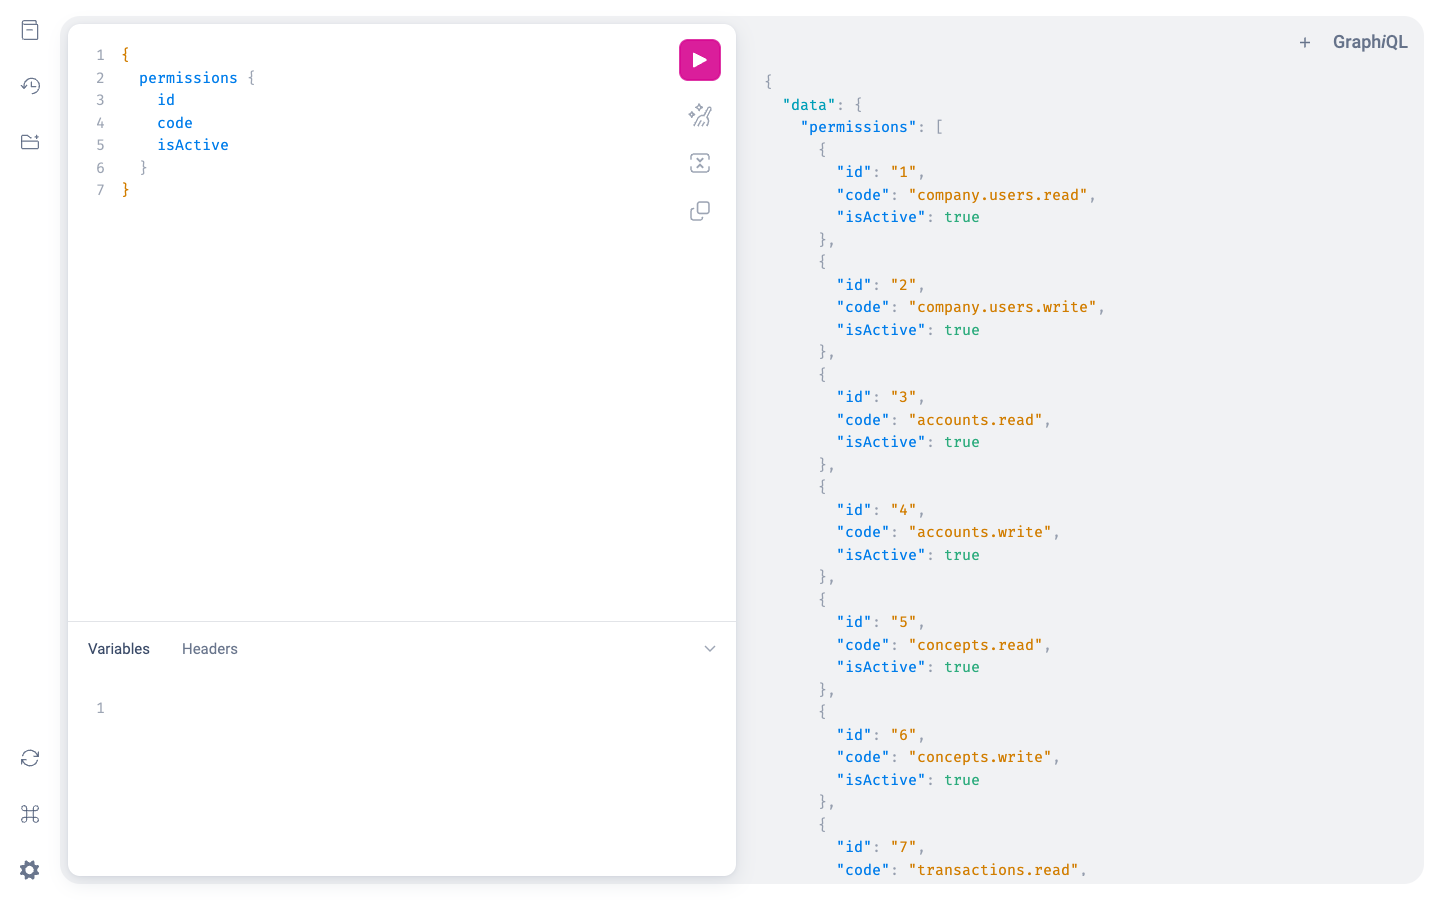
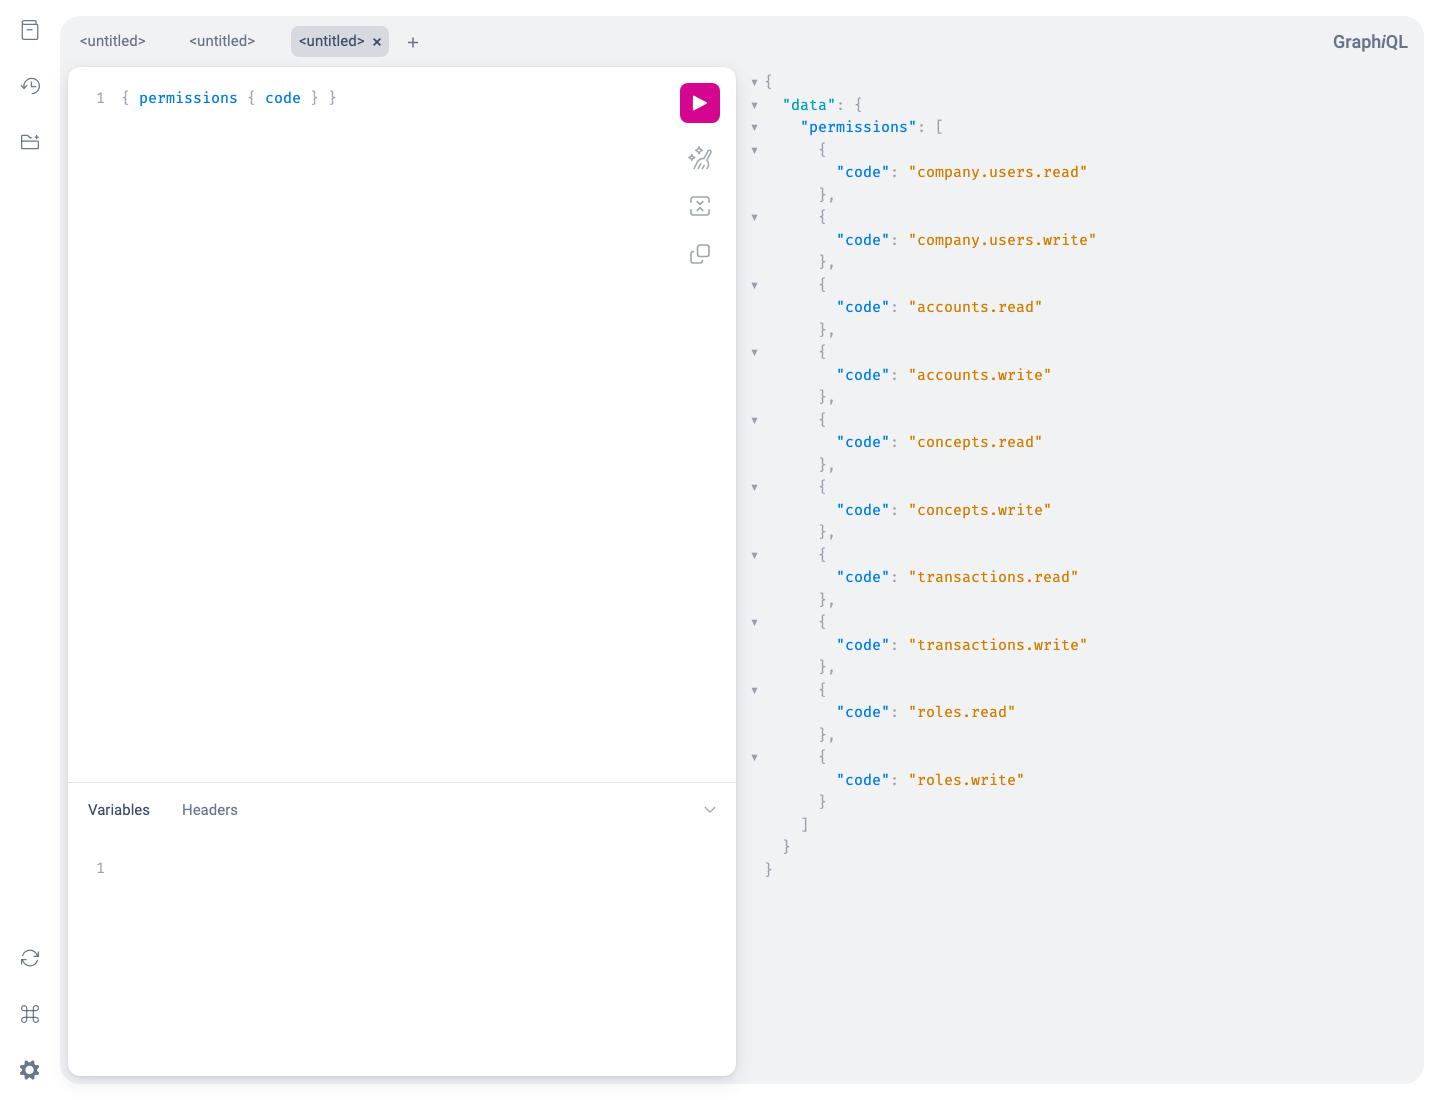
Completar capturas de catalogo y permisos

diff --git a/U2_Actividad3/README_ACTIVIDAD4.md b/U2_Actividad3/README_ACTIVIDAD4.md
@@ -52,6 +52,8 @@ La [consulta a MySQL](evidencias/actividad4/verificaciones_mysql.txt) muestra un
 | [Cambio de Ana](evidencias/actividad4/capturas_graphql/21_ana_permiso_aceptado.png) | Ana sí puede agregarlo. |
 | [Ana lo retira](evidencias/actividad4/capturas_graphql/22_ana_restaura_consulta.png) | CONSULTA vuelve a quedar sin permisos de escritura. |
 
+La [consulta a MySQL](evidencias/actividad4/verificaciones_mysql.txt) confirma que el intento rechazado de José no activó `concepts.write` para CONSULTA.
+
 ## Resultado final en MySQL
 
 Ejecutamos la consulta solicitada:
